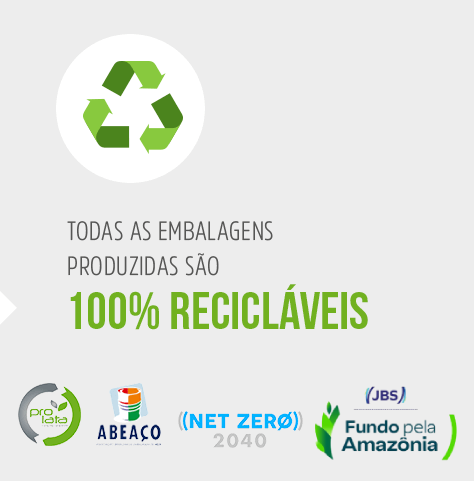
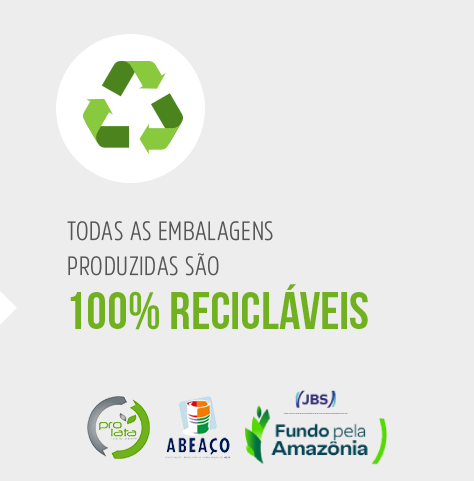
feat: net zero changes

Changed region(s): [[0.0295, 0.7796, 0.9747, 0.9667]]

diff --git a/frontend/webapp/templates/home.html b/frontend/webapp/templates/home.html
@@ -93,39 +93,13 @@
           </div>
         </div>
       </div>
-      <div class="item banner-size">
-        <div class="banner4-bg banner-size">
-          <div class="container">
-            <div class="banner-texts">
-              <div class="banner-title banner-title-home banner-title-home4">
-                Compromisso Global <br  />
-                <strong>A JBS <br class="visible-lt-767" /> se compromete</strong> <br />
-                <strong>A ser NET ZERO <br class="visible-lt-767" /> até 2040!</strong>
-              </div>
-              <div class="banner-sub-title2 visible-gt-767">
-                O aquecimento global é um dos maiores desafios da história da humanidade.
-                Como uma das principais produtoras mundiais de alimentos, a JBS assume o compromisso
-                de fazer parte da mudança, tornando-se Net Zero até 2040. Seguiremos com nosso
-                propósito de alimentar pessoas em todo o mundo com o que há de melhor, de maneira
-                cada vez mais sustentável, preservando os recursos do planeta para as futuras gerações.
-              </div>
-              <div class="banner-button-line" onclick="location.href='{{ base_path }}/sustentabilidade';" style="cursor: pointer;">
-                <div class="banner-button">
-                 Ver mais &nbsp;
-                  <img src="{% static 'img/right-white.png' %}" width="9px" height="16px" alt="Link">
-                </div>
-              </div>
-            </div>
-          </div>
-        </div>
-      </div>
     </div>
   </div>
 </div>
 
 <div class="chamadas-section">
   <div class="container">
-    <div class="col-md-3 col-sm-6">
+    <div class="col-md-4 col-sm-6">
       <div class="chamadas-item-col chamada-1">
         <div class="chamadas-item-titulo">
           Integração Total <br class="visible-gt-767" />
@@ -134,7 +108,7 @@
         <div class="chamadas-item-separator"></div>
       </div>
     </div>
-    <div class="col-md-3 col-sm-6">
+    <div class="col-md-4 col-sm-6">
       <div class="chamadas-item-col chamada-2">
         <div class="chamadas-item-titulo">
           Infraestrutura <br class="visible-gt-767" />
@@ -143,7 +117,7 @@
         <div class="chamadas-item-separator"></div>
       </div>
     </div>
-    <div class="col-md-3 col-sm-6">
+    <div class="col-md-4 col-md-offset-0 col-sm-6 col-sm-offset-3">
       <div class="chamadas-item-col chamada-3">
         <div class="chamadas-item-titulo">
           <br class="visible-lt-767" />
@@ -154,6 +128,7 @@
         <div class="chamadas-item-separator"></div>
       </div>
     </div>
+    <!--
     <div class="col-md-3 col-sm-6">
       <div class="chamadas-item-col chamada-4">
         <div class="chamadas-item-titulo">
@@ -165,6 +140,7 @@
         <div class="chamadas-item-separator"></div>
       </div>
     </div>
+    -->
   </div>
 </div>
 

diff --git a/frontend/webapp/templates/sustentabilidade.html b/frontend/webapp/templates/sustentabilidade.html
@@ -93,9 +93,6 @@
         </a>
         <br /> &nbsp;
         <div class="compromisso-selos">
-          <a href="https://jbs.com.br/netzero/" target="_blank" rel="noopener">
-            <img src="{% static 'img/sustentabilidade/selo-netzero.png'%}" alt="Net-zero" class="selo-netzero">
-          </a>
           <a href="https://fundojbsamazonia.org/quem-somos/o-fundo/" target="_blank" rel="noopener">
             <img src="{% static 'img/sustentabilidade/selo-fundo-amazonia.png'%}" alt="Fundo pela Amazônia" class="selo-fundo-amazonia">
           </a>
@@ -116,16 +113,6 @@
         <div class="compromisso-imagem">
           <img src="{% static 'img/sustentabilidade/maos.png'%}">
         </div>
-      </div>
-    </div>
-  </div>
-</div>
-
-<div class="netzero-section">
-  <div class="container">
-    <div class="col-sm-12 col-md-12">
-      <div class="netzero">
-        <img src="{% static 'img/sustentabilidade/netzero2.png'%}">
       </div>
     </div>
   </div>

diff --git a/frontend/webapp/templates/negocio.html b/frontend/webapp/templates/negocio.html
@@ -207,8 +207,7 @@
         <p>
           Investimos continuamente em desenvolvimento e tecnologias de última geração,
           assegurando <strong>alta produtividade</strong>, além da excelência na qualidade
-          das embalagens. Atualmente assumimos um compromisso com a sociedade
-          de sermos NET ZERO até 2040.
+          das embalagens.
         </p>
       </div>
     </div>
